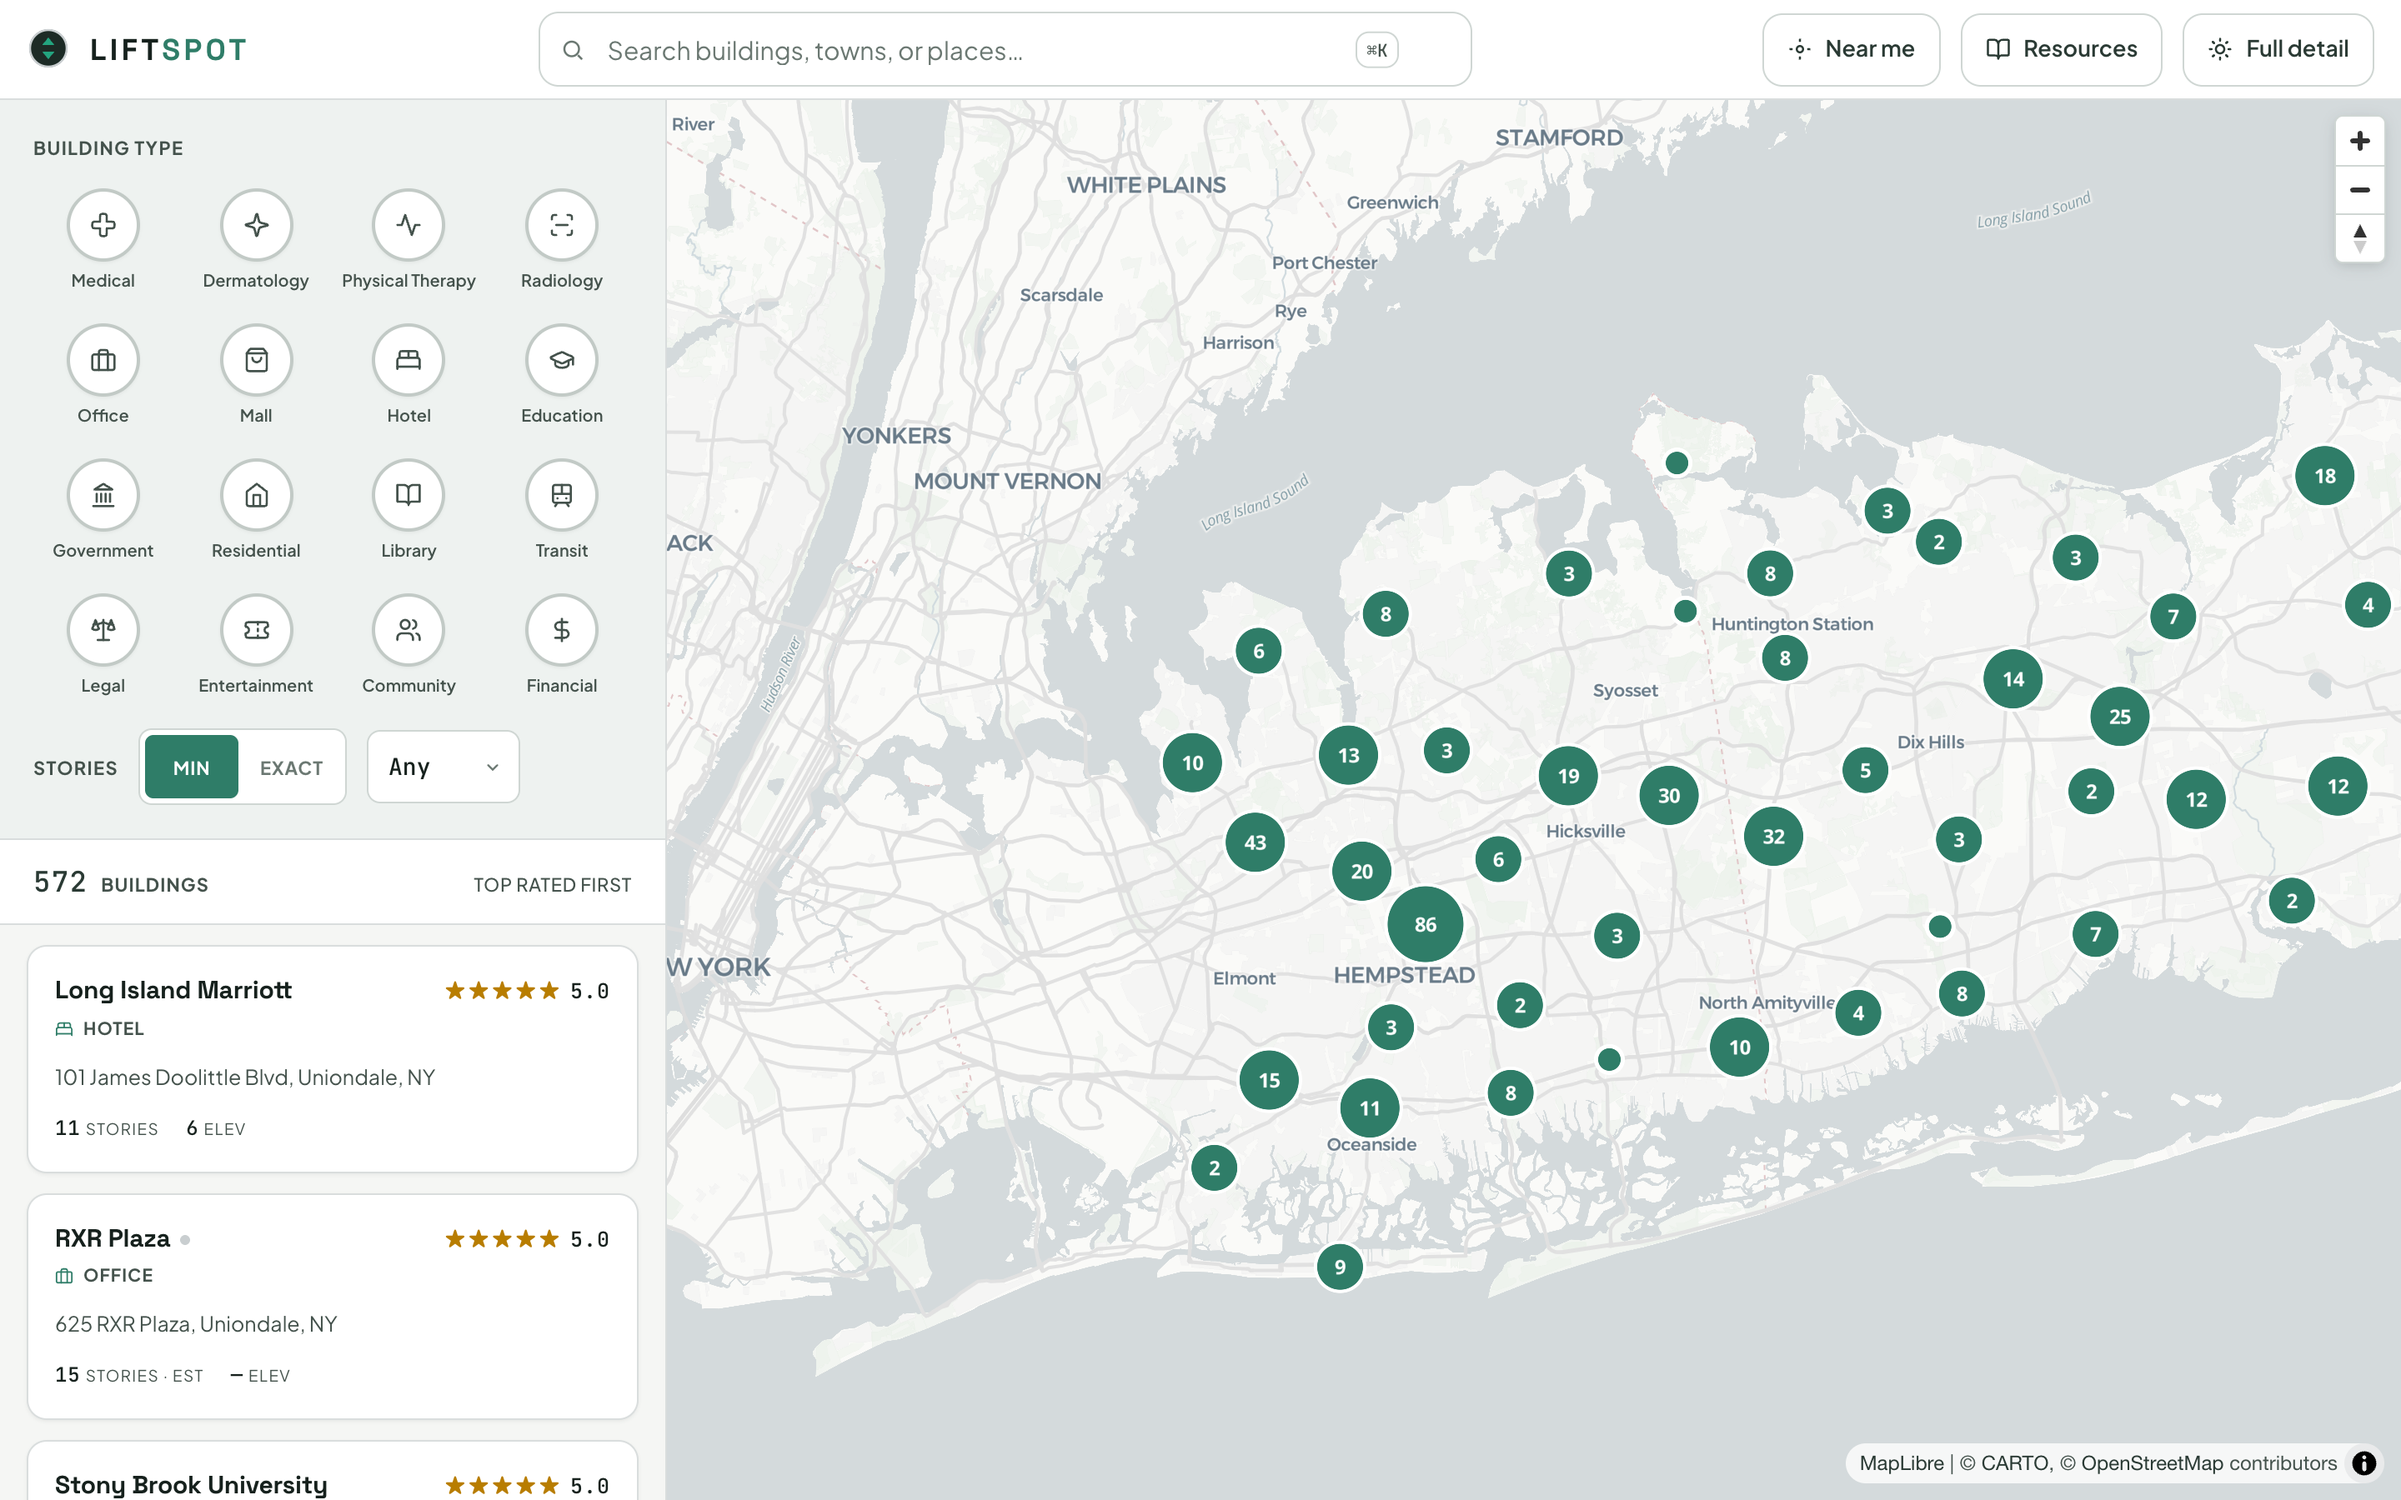
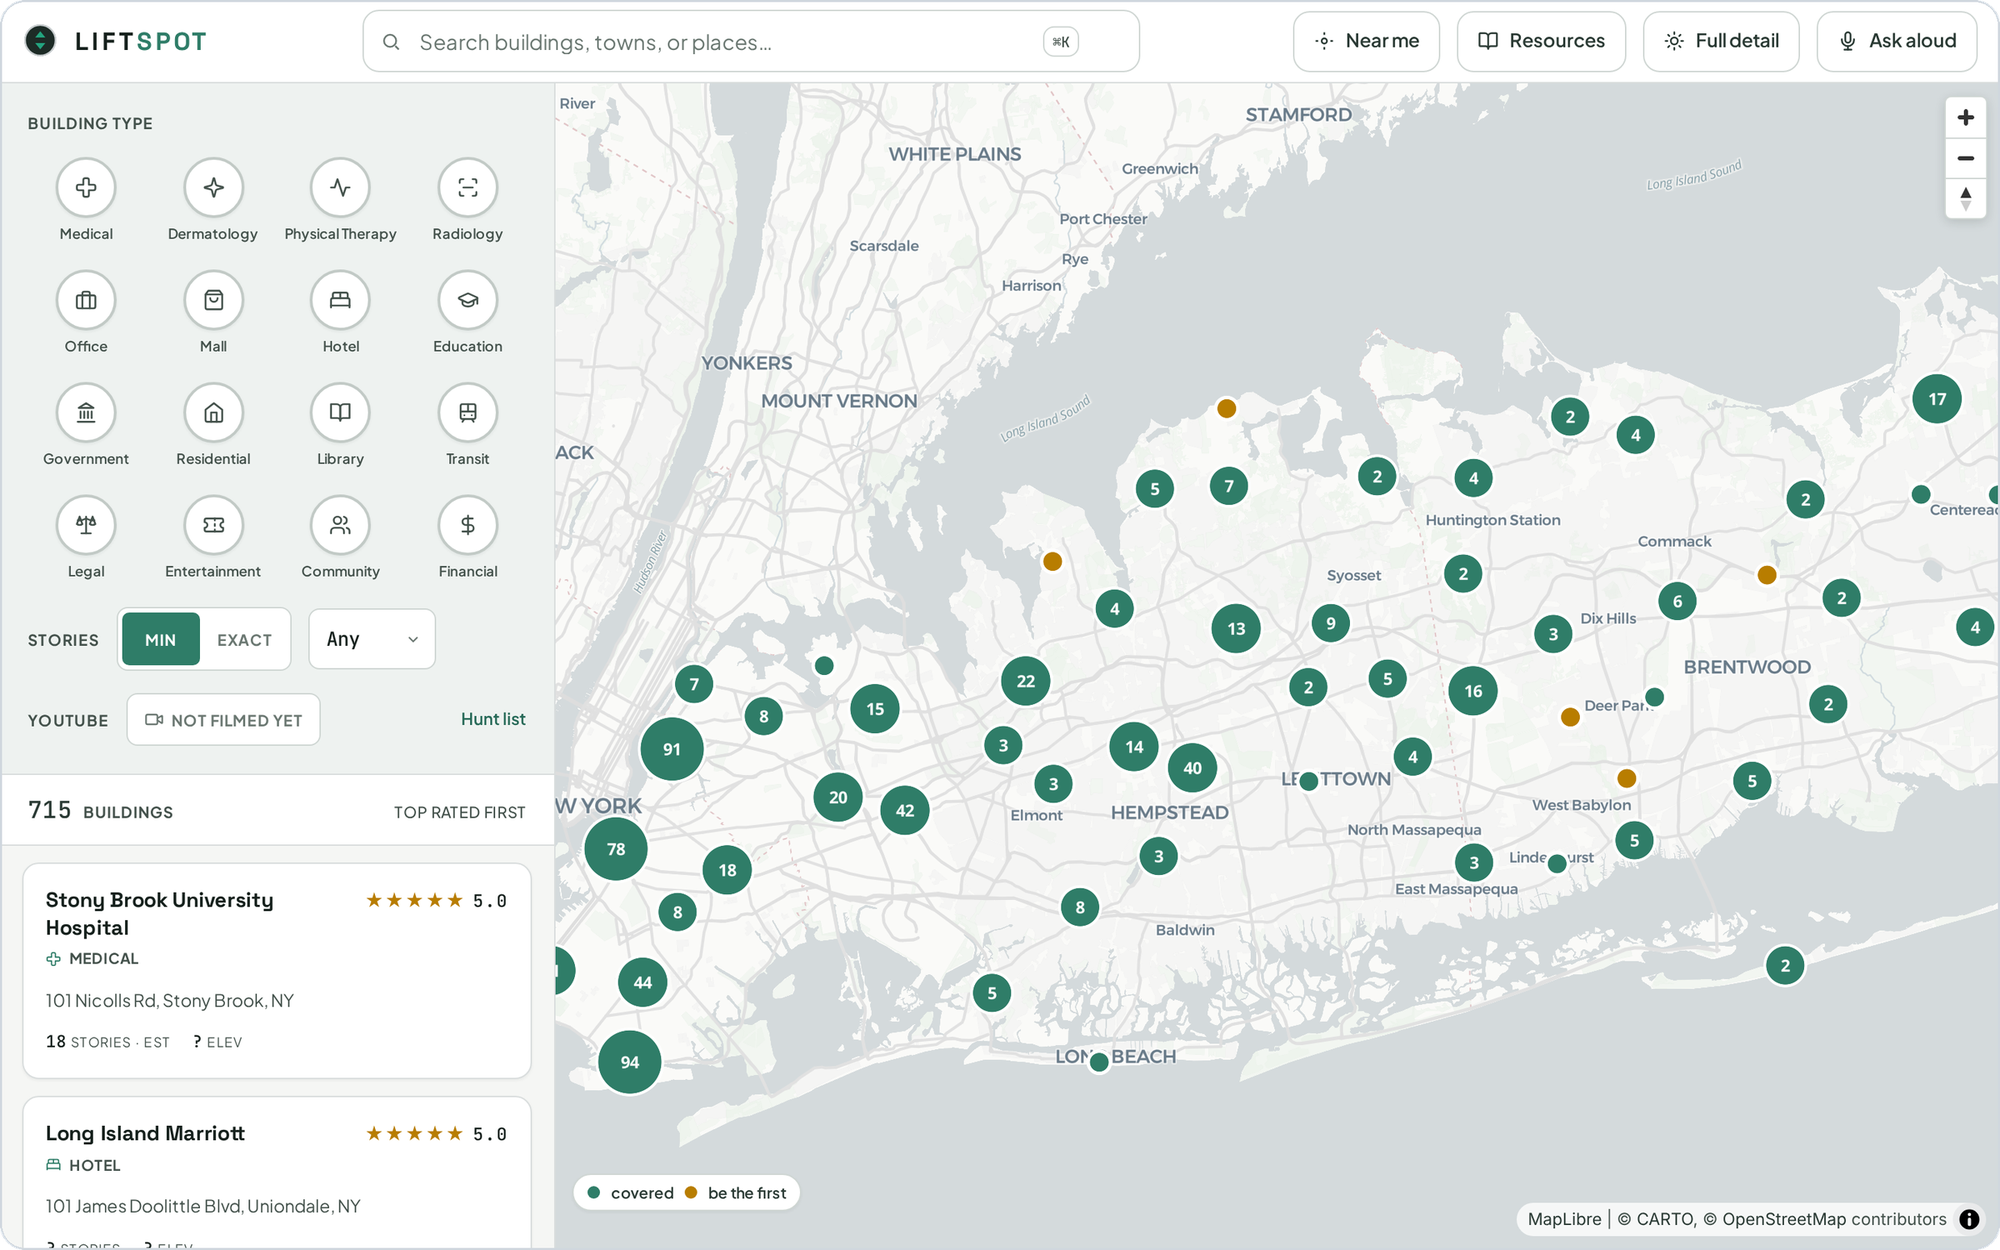
Update screenshots to the current app and fix README image layout
Main view and drawer now show 715 buildings, amber be-the-first pins,
and the new drawer sections. Drawer and mobile shots are combined into
one image at equal height so they line up.

Claude-Session: https://claude.ai/code/session_01B63wvpQE9FRnti5UTDVY8T

diff --git a/README.md b/README.md
@@ -20,12 +20,9 @@ Ratings only come from real reviews, so a building nobody has reviewed just says
 
 If you'd rather talk than type, the "Ask aloud" button opens a voice assistant you can ask about buildings in the catalog. It answers from the same data as the map and follows the same rules about what it knows and what it doesn't.
 
-<img src="docs/images/app-main.png" alt="LiftSpot main view with the filter sidebar and building list beside a live map with clustered pins" width="100%" />
+<img src="docs/images/app-main.png" alt="LiftSpot main view with filters, the building list, and a map of Long Island, Queens, and Brooklyn with amber be-the-first pins" width="100%" />
 
-<p>
-  <img src="docs/images/app-drawer.png" alt="LiftSpot building drawer showing specs, a review, and private notes" width="64%" />
-  <img src="docs/images/app-mobile.png" alt="LiftSpot on mobile with a map-first layout and a draggable bottom sheet" width="32%" />
-</p>
+<img src="docs/images/app-drawer-mobile.png" alt="LiftSpot building drawer on desktop next to the map-first mobile layout" width="100%" />
 
 ## Designing it to be calm
 
